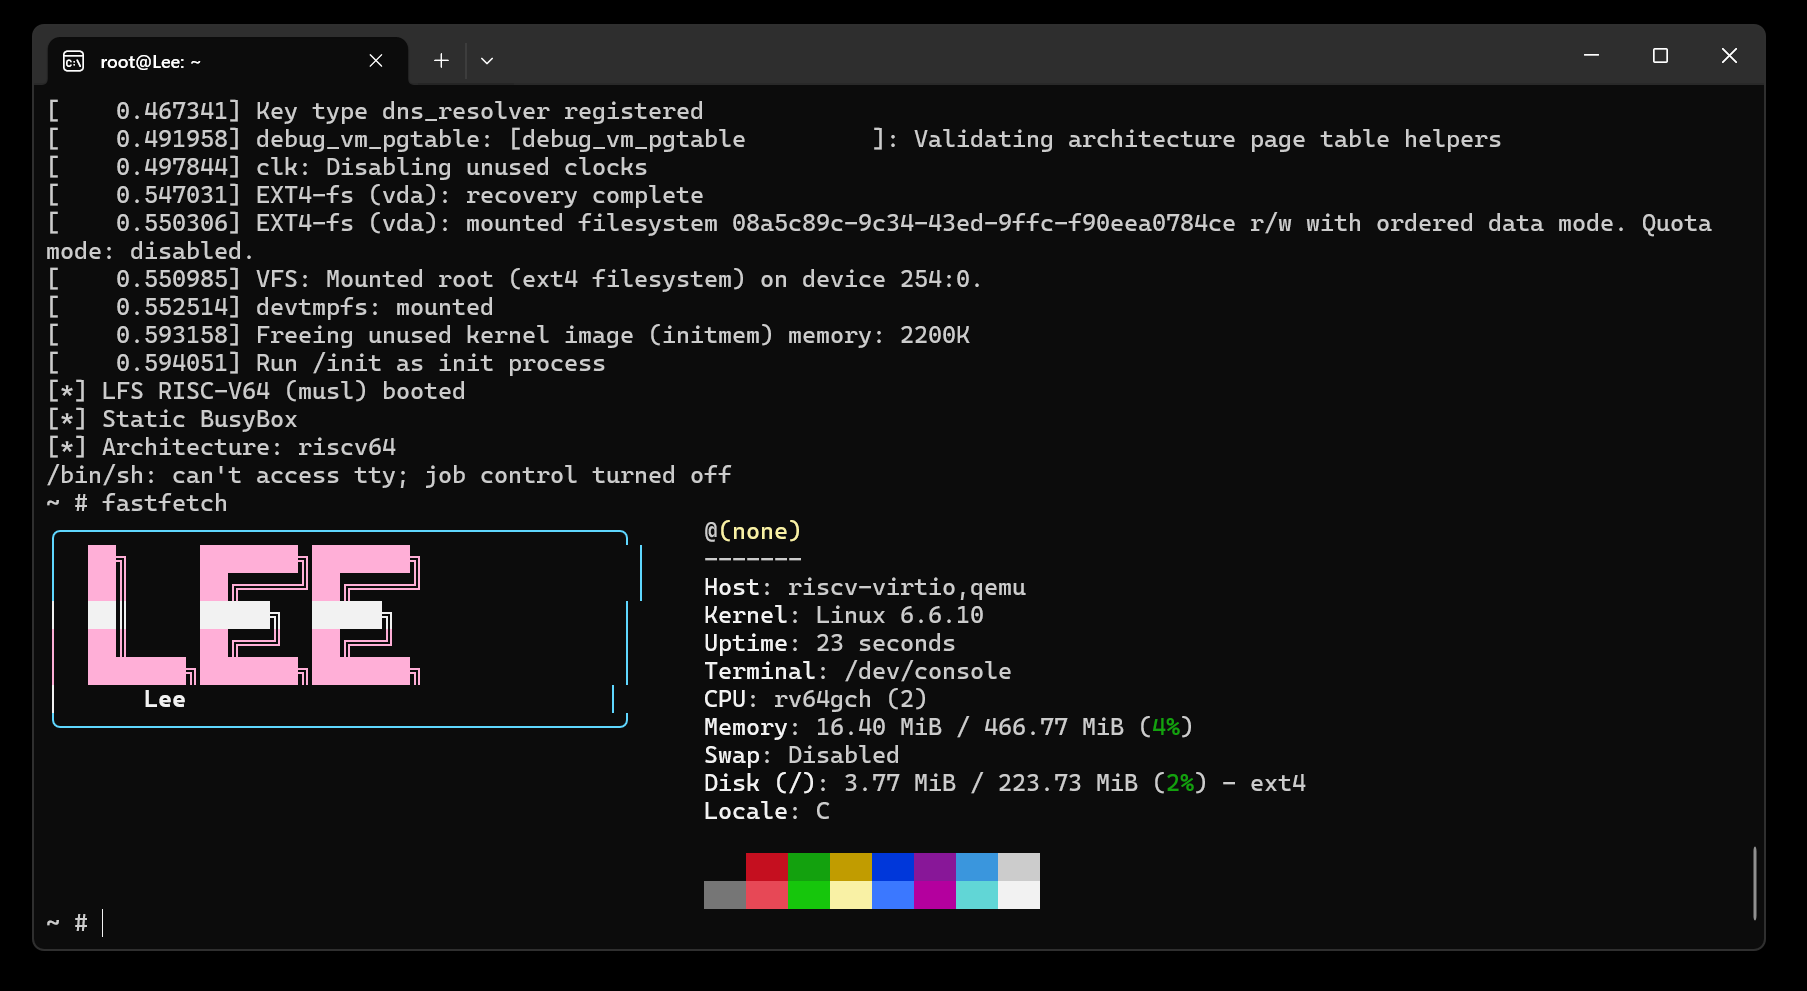
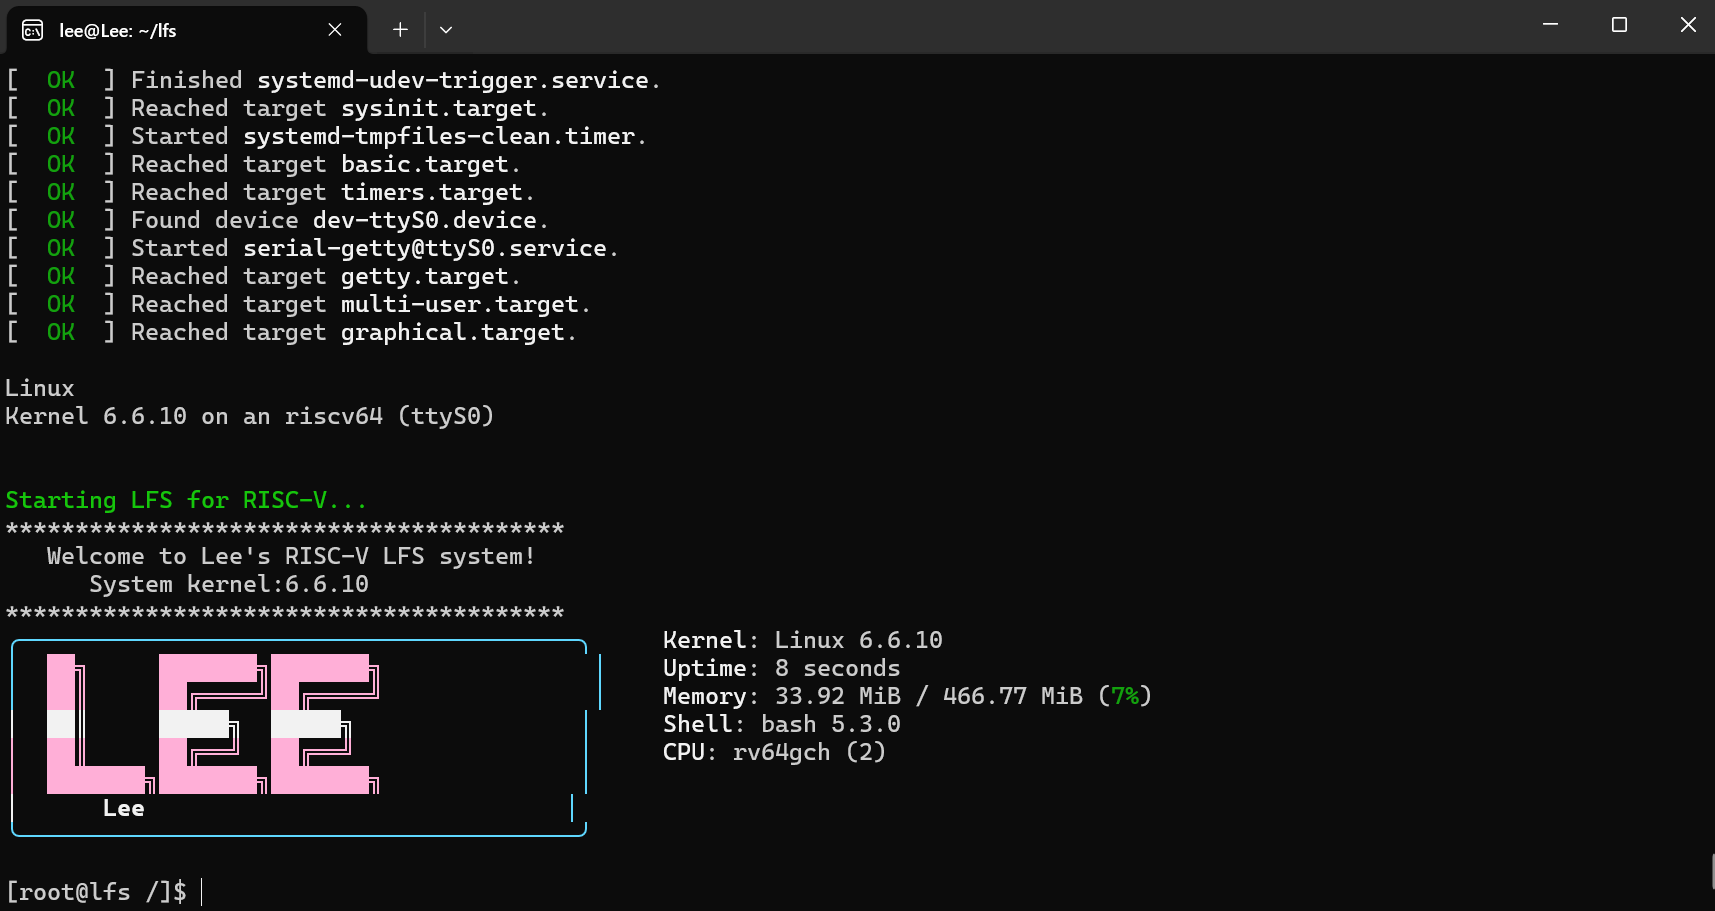
从 musl + busybox 改为 glibc + systemd 方案

diff --git a/submissions/Leetfs.md b/submissions/Leetfs.md
@@ -9,27 +9,33 @@
 ## Rootfs 资产
 
 - 文件名: rootfs-riscv64-lfs-Leetfs.tar.zst
-- SHA256: 02954b0b4f17ca061b9f65fd796aa17fd05000e42c974971396b68d16f6608f9
+- SHA256: a7fb2bcddf141219701937f4565ec2dfe7208bb3a19fb9ee667c34fd34779e0d
 
 ## 如何从 rootfs 运行起来
 
-> 我们直接下载 rootfs 镜像~
-
 ```bash
-wget https://github.com/Leetfs/lfs-riscv/releases/download/lfs-riscv/lfs-musl-riscv64.img
+# 下载 -> 解压（略）
+
+dd if=/dev/zero of=lfs-glibc-riscv64.img bs=1M count=1024
+sudo /usr/sbin/mkfs.ext4 lfs-glibc-riscv64.img
+
+sudo mkdir -p /mnt/tmp-boot
+
+sudo mount -o loop lfs-glibc-riscv64.img /mnt/tmp-boot
+sudo cp -a rootfs/* /mnt/tmp-boot/
+sync
+sudo umount /mnt/tmp-boot
 
 qemu-system-riscv64 \
     -machine virt \
     -m 512M \
     -smp 2 \
-    -bios /usr/lib/riscv64-linux-gnu/opensbi/generic/fw_jump.bin \
-    -kernel /mnt/lfs-riscv/sources/linux-6.6.10/arch/riscv/boot/Image \
-    -drive file=/mnt/lfs-riscv/lfs-musl-riscv64.img,format=raw,if=virtio \
-    -append "root=/dev/vda rw console=ttyS0 init=/init rootwait" \
+    -bios default \
+    -kernel Image \
+    -drive file=$LFS/lfs-glibc-riscv64.img,format=raw,if=virtio \
+    -append "root=/dev/vda rw console=ttyS0 init=/usr/lib/systemd/systemd" \
     -nographic
 ```
-
-启动啦！
 
 ## fastfetch 证据
 
@@ -37,8 +43,10 @@ qemu-system-riscv64 \
 
 ## 这是如何锻造的 (LFS 过程简述)
 
+见 blog: <https://leetfs.com/tips/system/linux/riscv-lfs>
+
 - 参考的教程/版本: [Linux From Scratch - Version r12.4-97-systemd](https://linuxfromscratch.org/lfs/view/systemd/)，Donz的文档，前人的PR/blog
-- 关键配置: gcc version 13.2.0 (GCC), Linux kernel 6.6.10, libc：musl, busybox-1.36.1
+- 关键配置: gcc 15.2.0, Linux kernel 6.6.10, libxcrypt 4.5.2, GNU Bash 5.3, GNU Coreutils 9.6, util-linux 2.39.3
 
 ## 踩过的坑
 
@@ -47,6 +55,8 @@ qemu-system-riscv64 \
 确认 `root=/dev/vda` 和 `CONFIG_VIRTIO_BLK=y` 都无问题，排查发现是运行时错误的使用 `-hda` 挂载文件系统，`-hda` 是一个历史兼容参数，会被转换为`-drive if=ide`，但 riscv virt 没 ide，就会报错卡住。
 
 解决方案：改为 `-drive if=virtio`
+
+- Systemd 部分测试项硬写入，关不掉，可使用某些方法绕过（见文档）
 
 ## 安全声明
 
